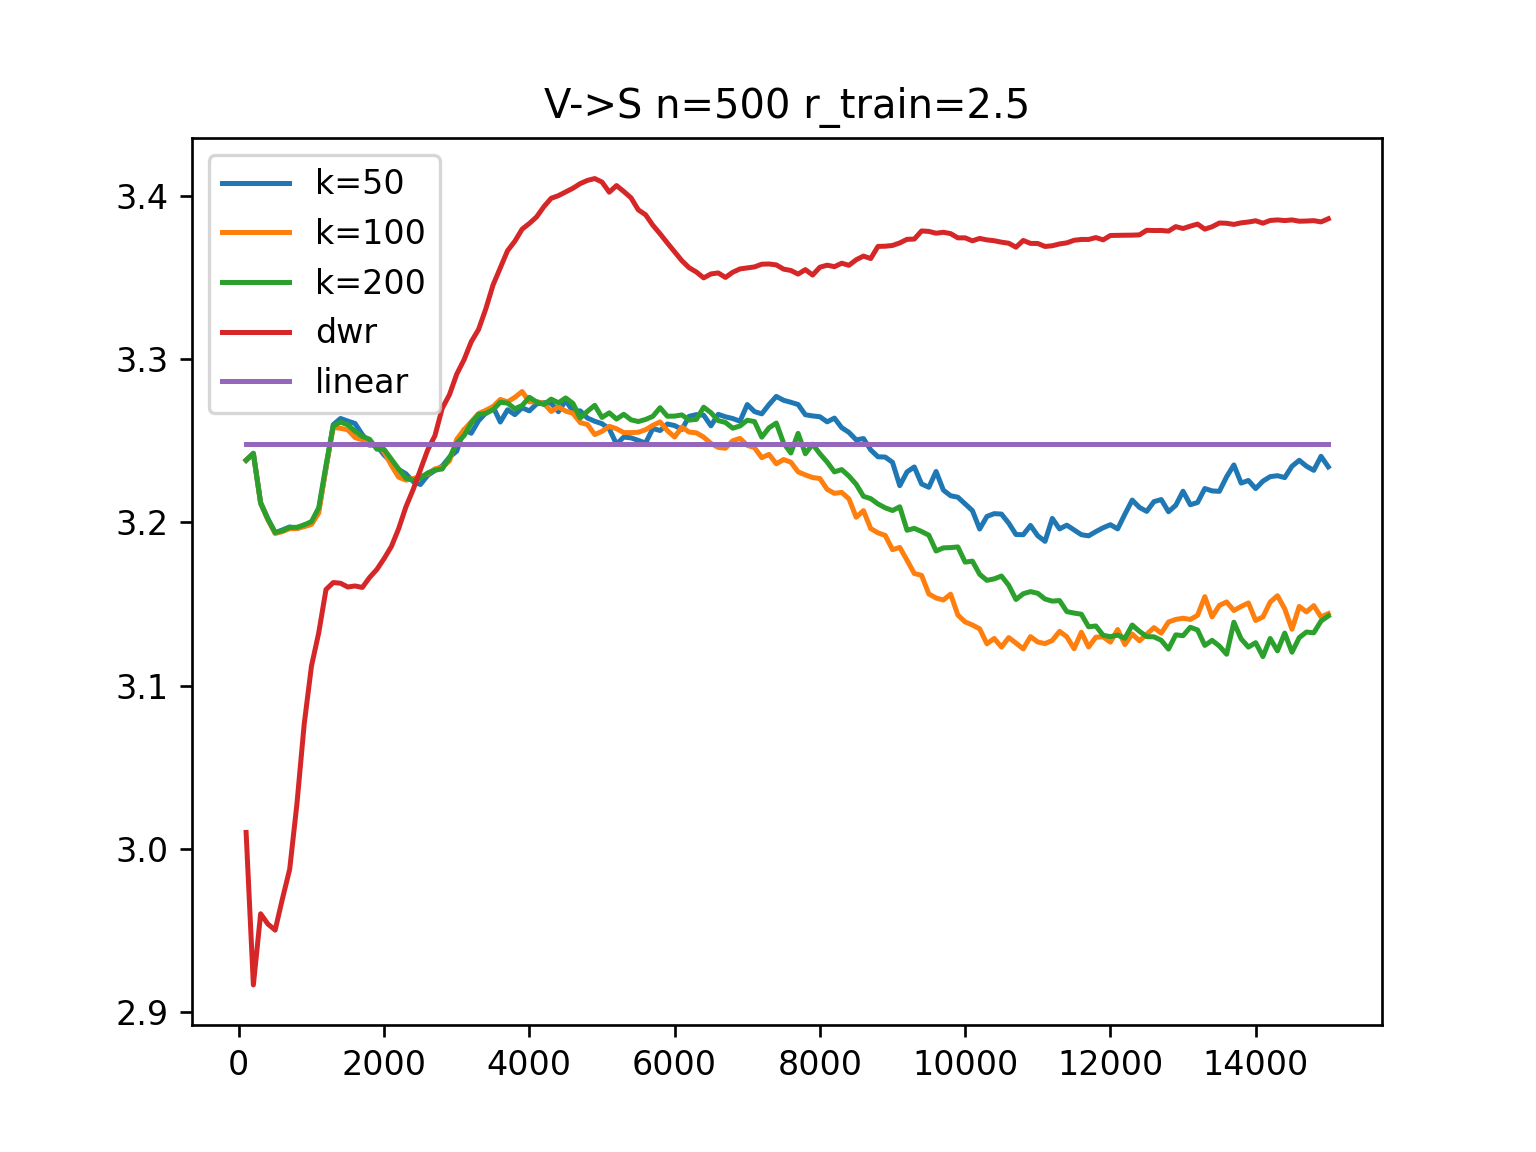
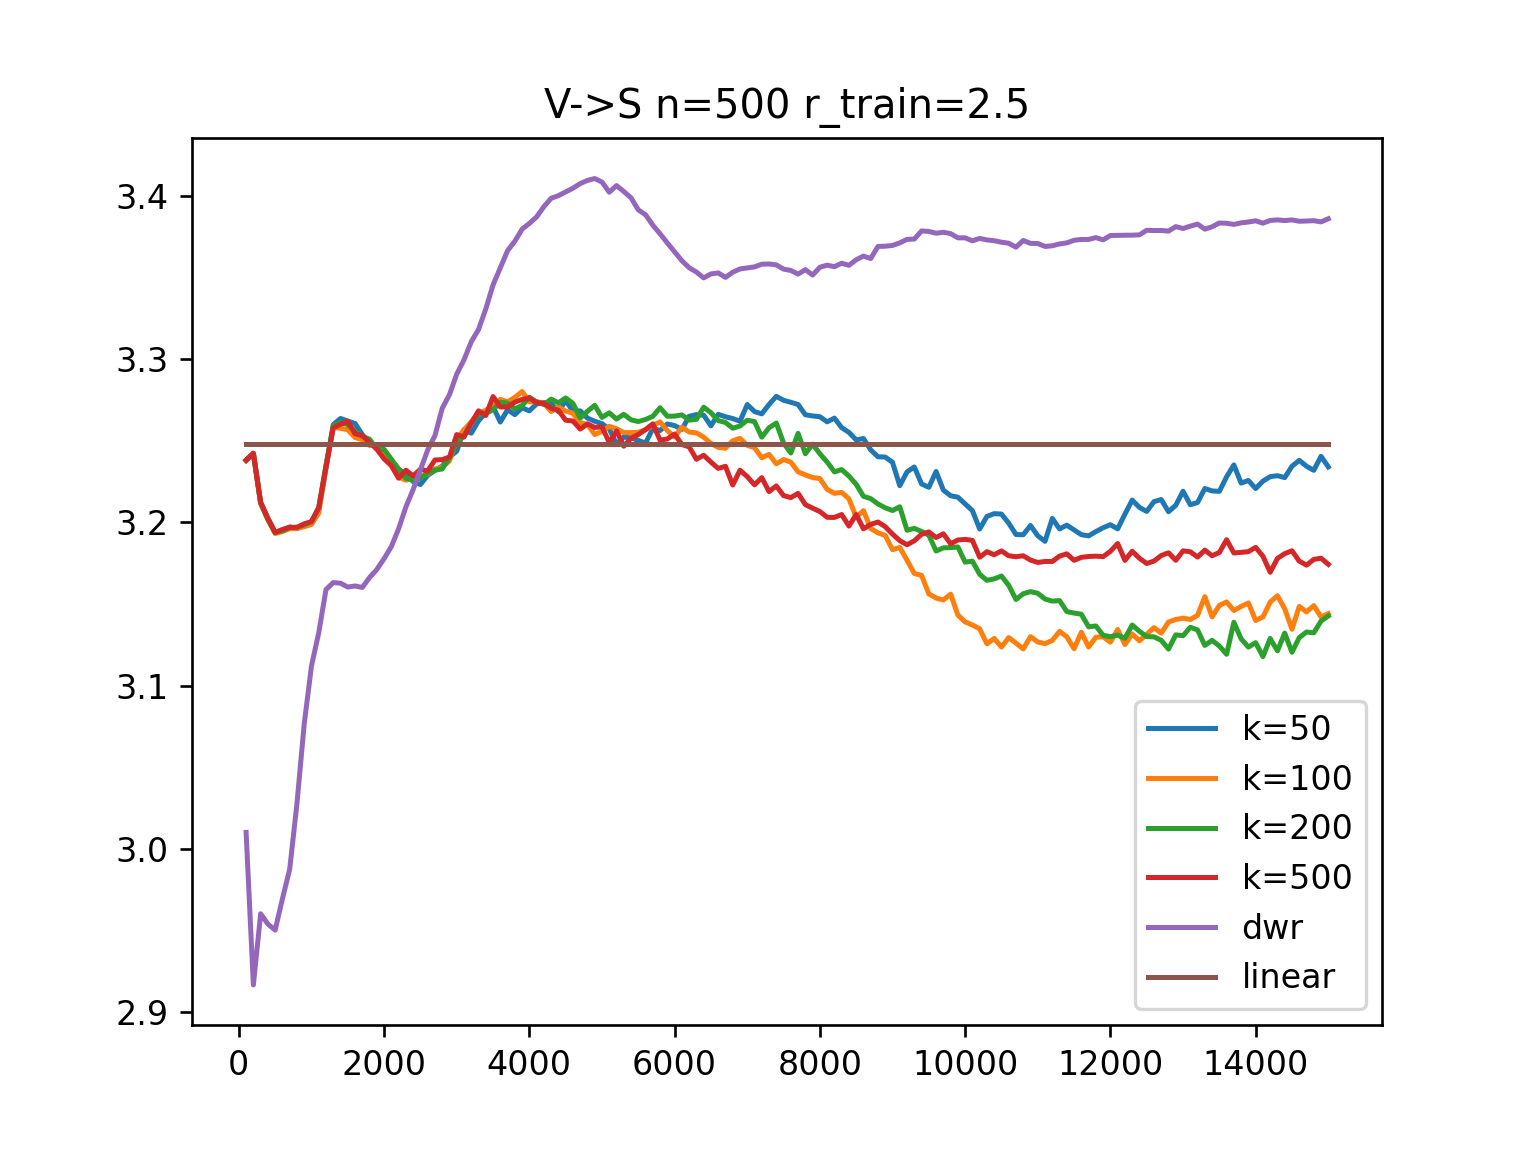
10.23

diff --git a/10.23.md b/10.23.md
@@ -3,7 +3,10 @@
 - double layers, r_train=2.5
 - hidden layer size = 10
 - loss = decorr_loss +  k * predict_loss  - 100 * torch.sum(weight[weight < 0])
-
+## conclusions:
+- 比较小的hidden layer size能让表现更稳定一些
+- 除了n较大时的S_|_V,S->V, 其余setting下都比DWR明显好
+- 超参数k影响比较小
 ### n=500
 #### collinearity
 <img src="MLP/K_collinearity_n=500.png" alt="" width="400">
